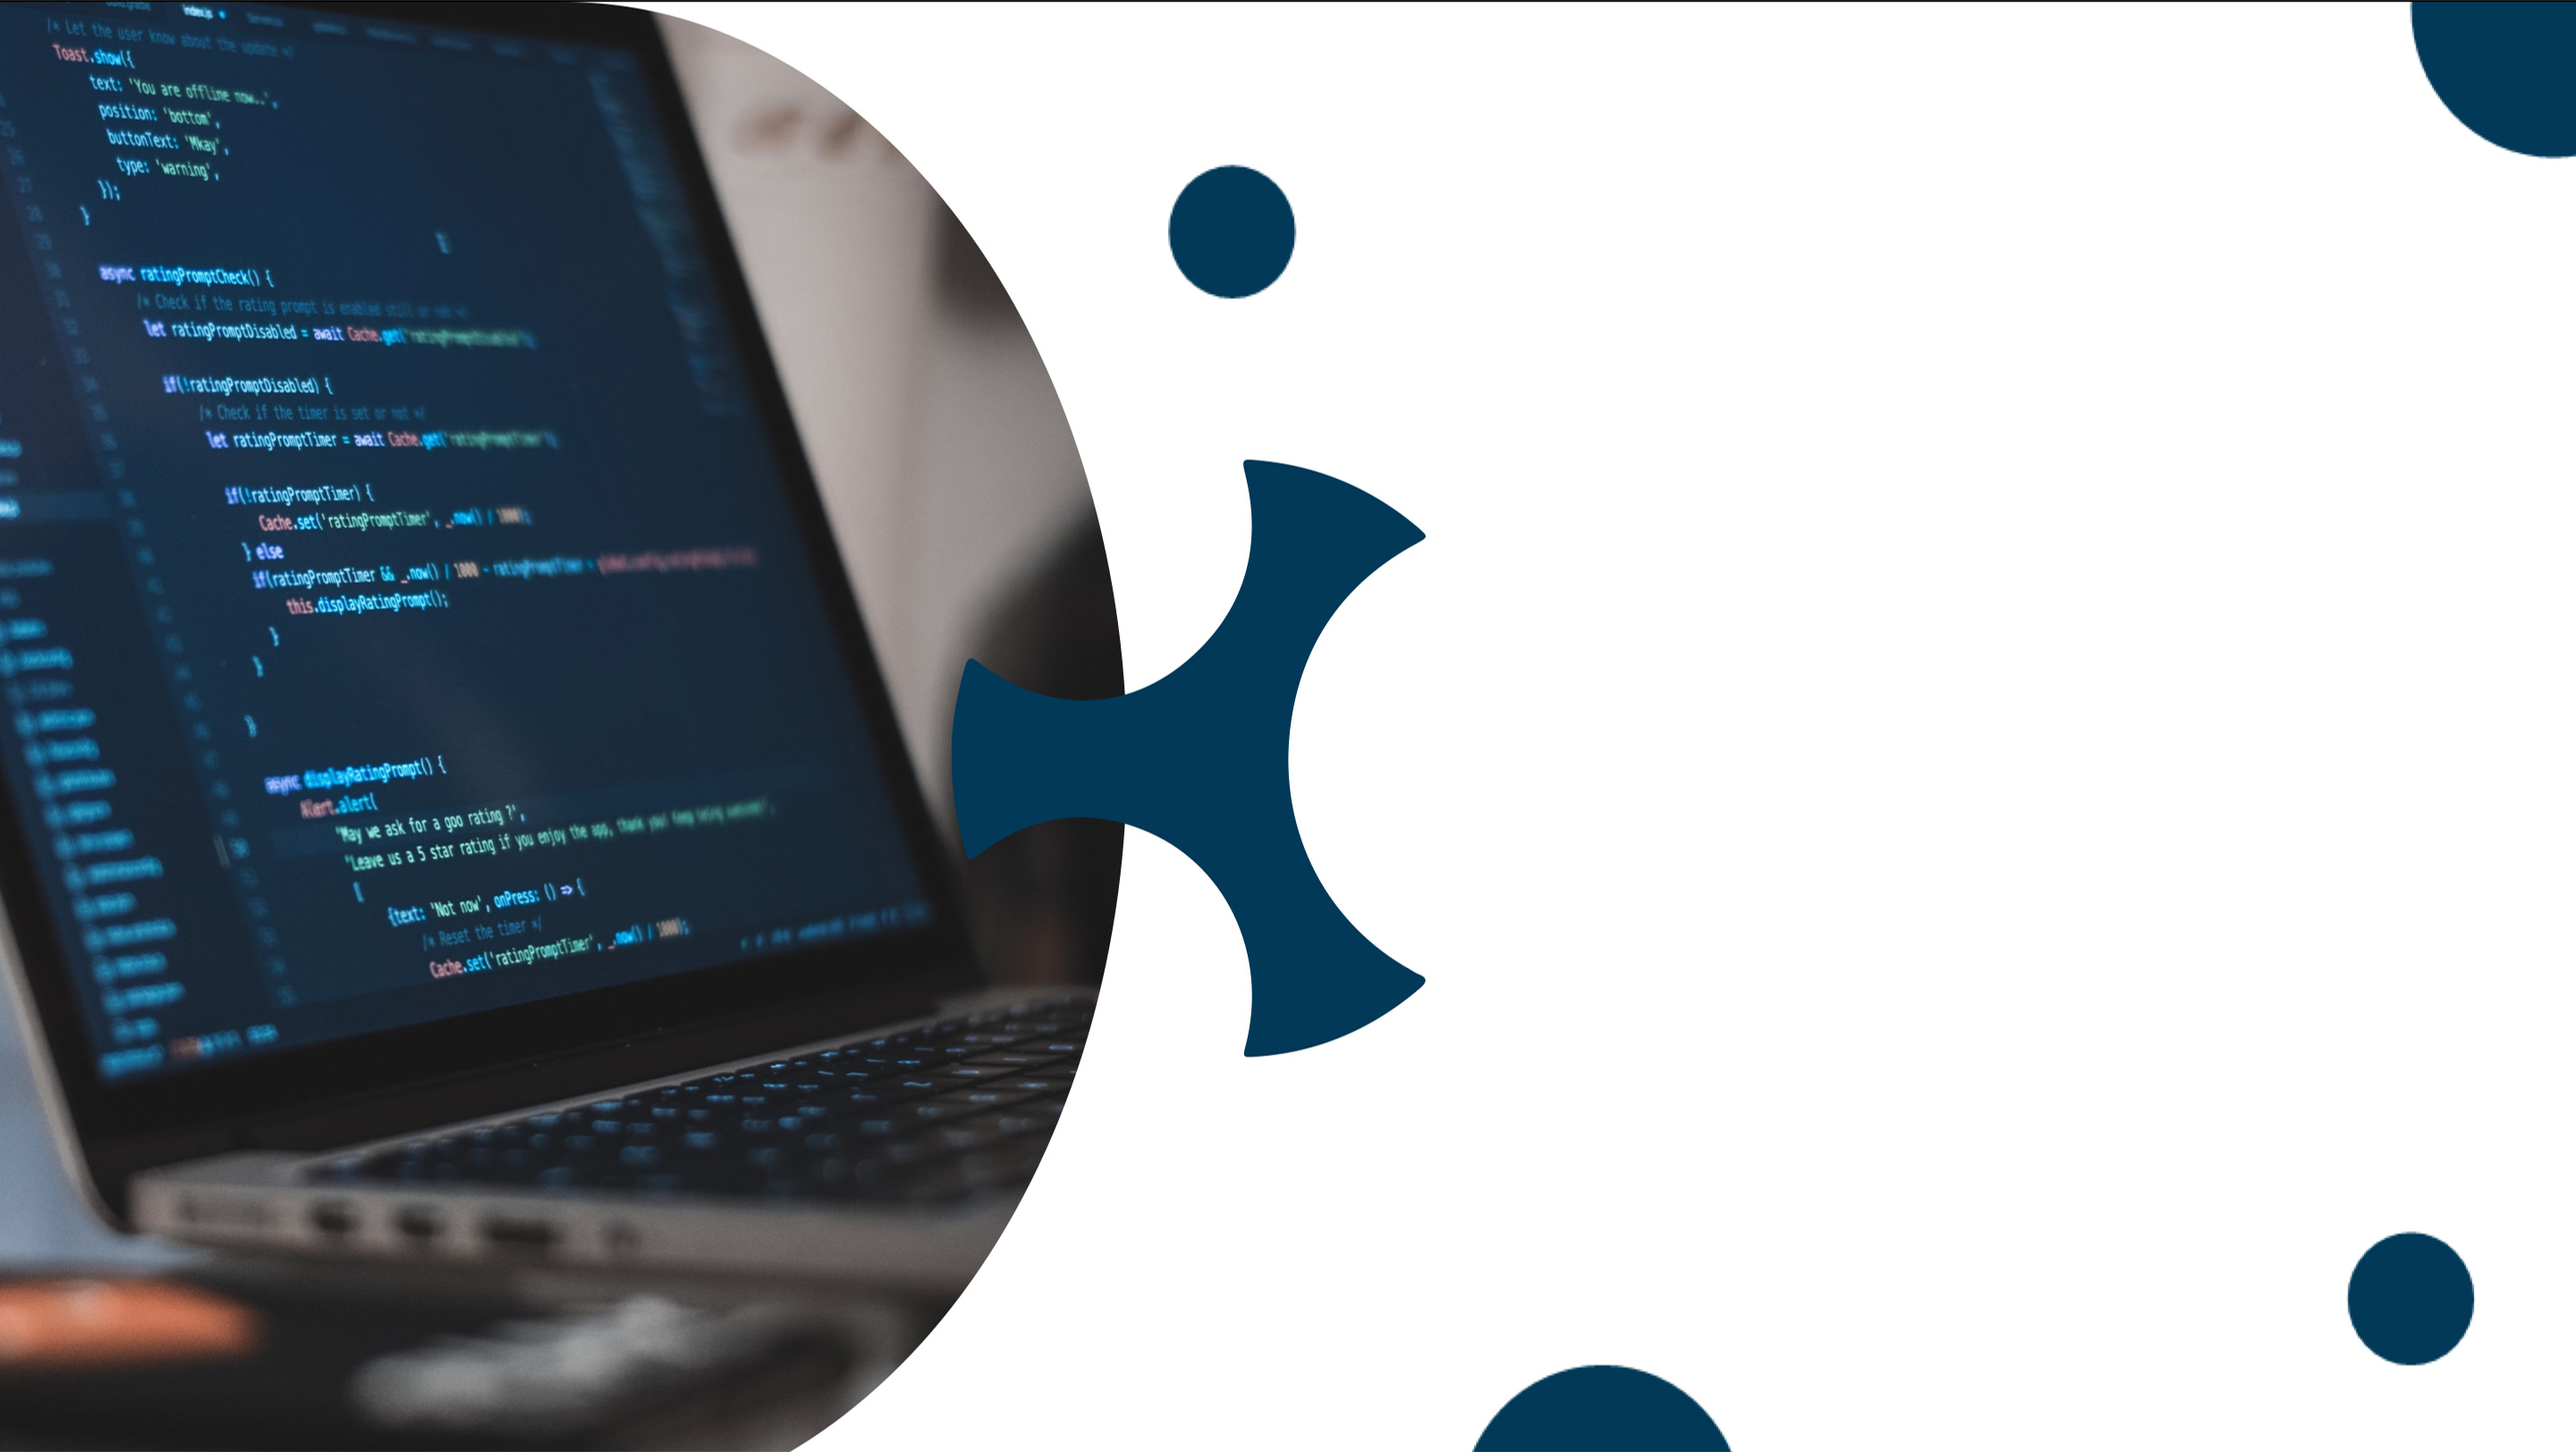
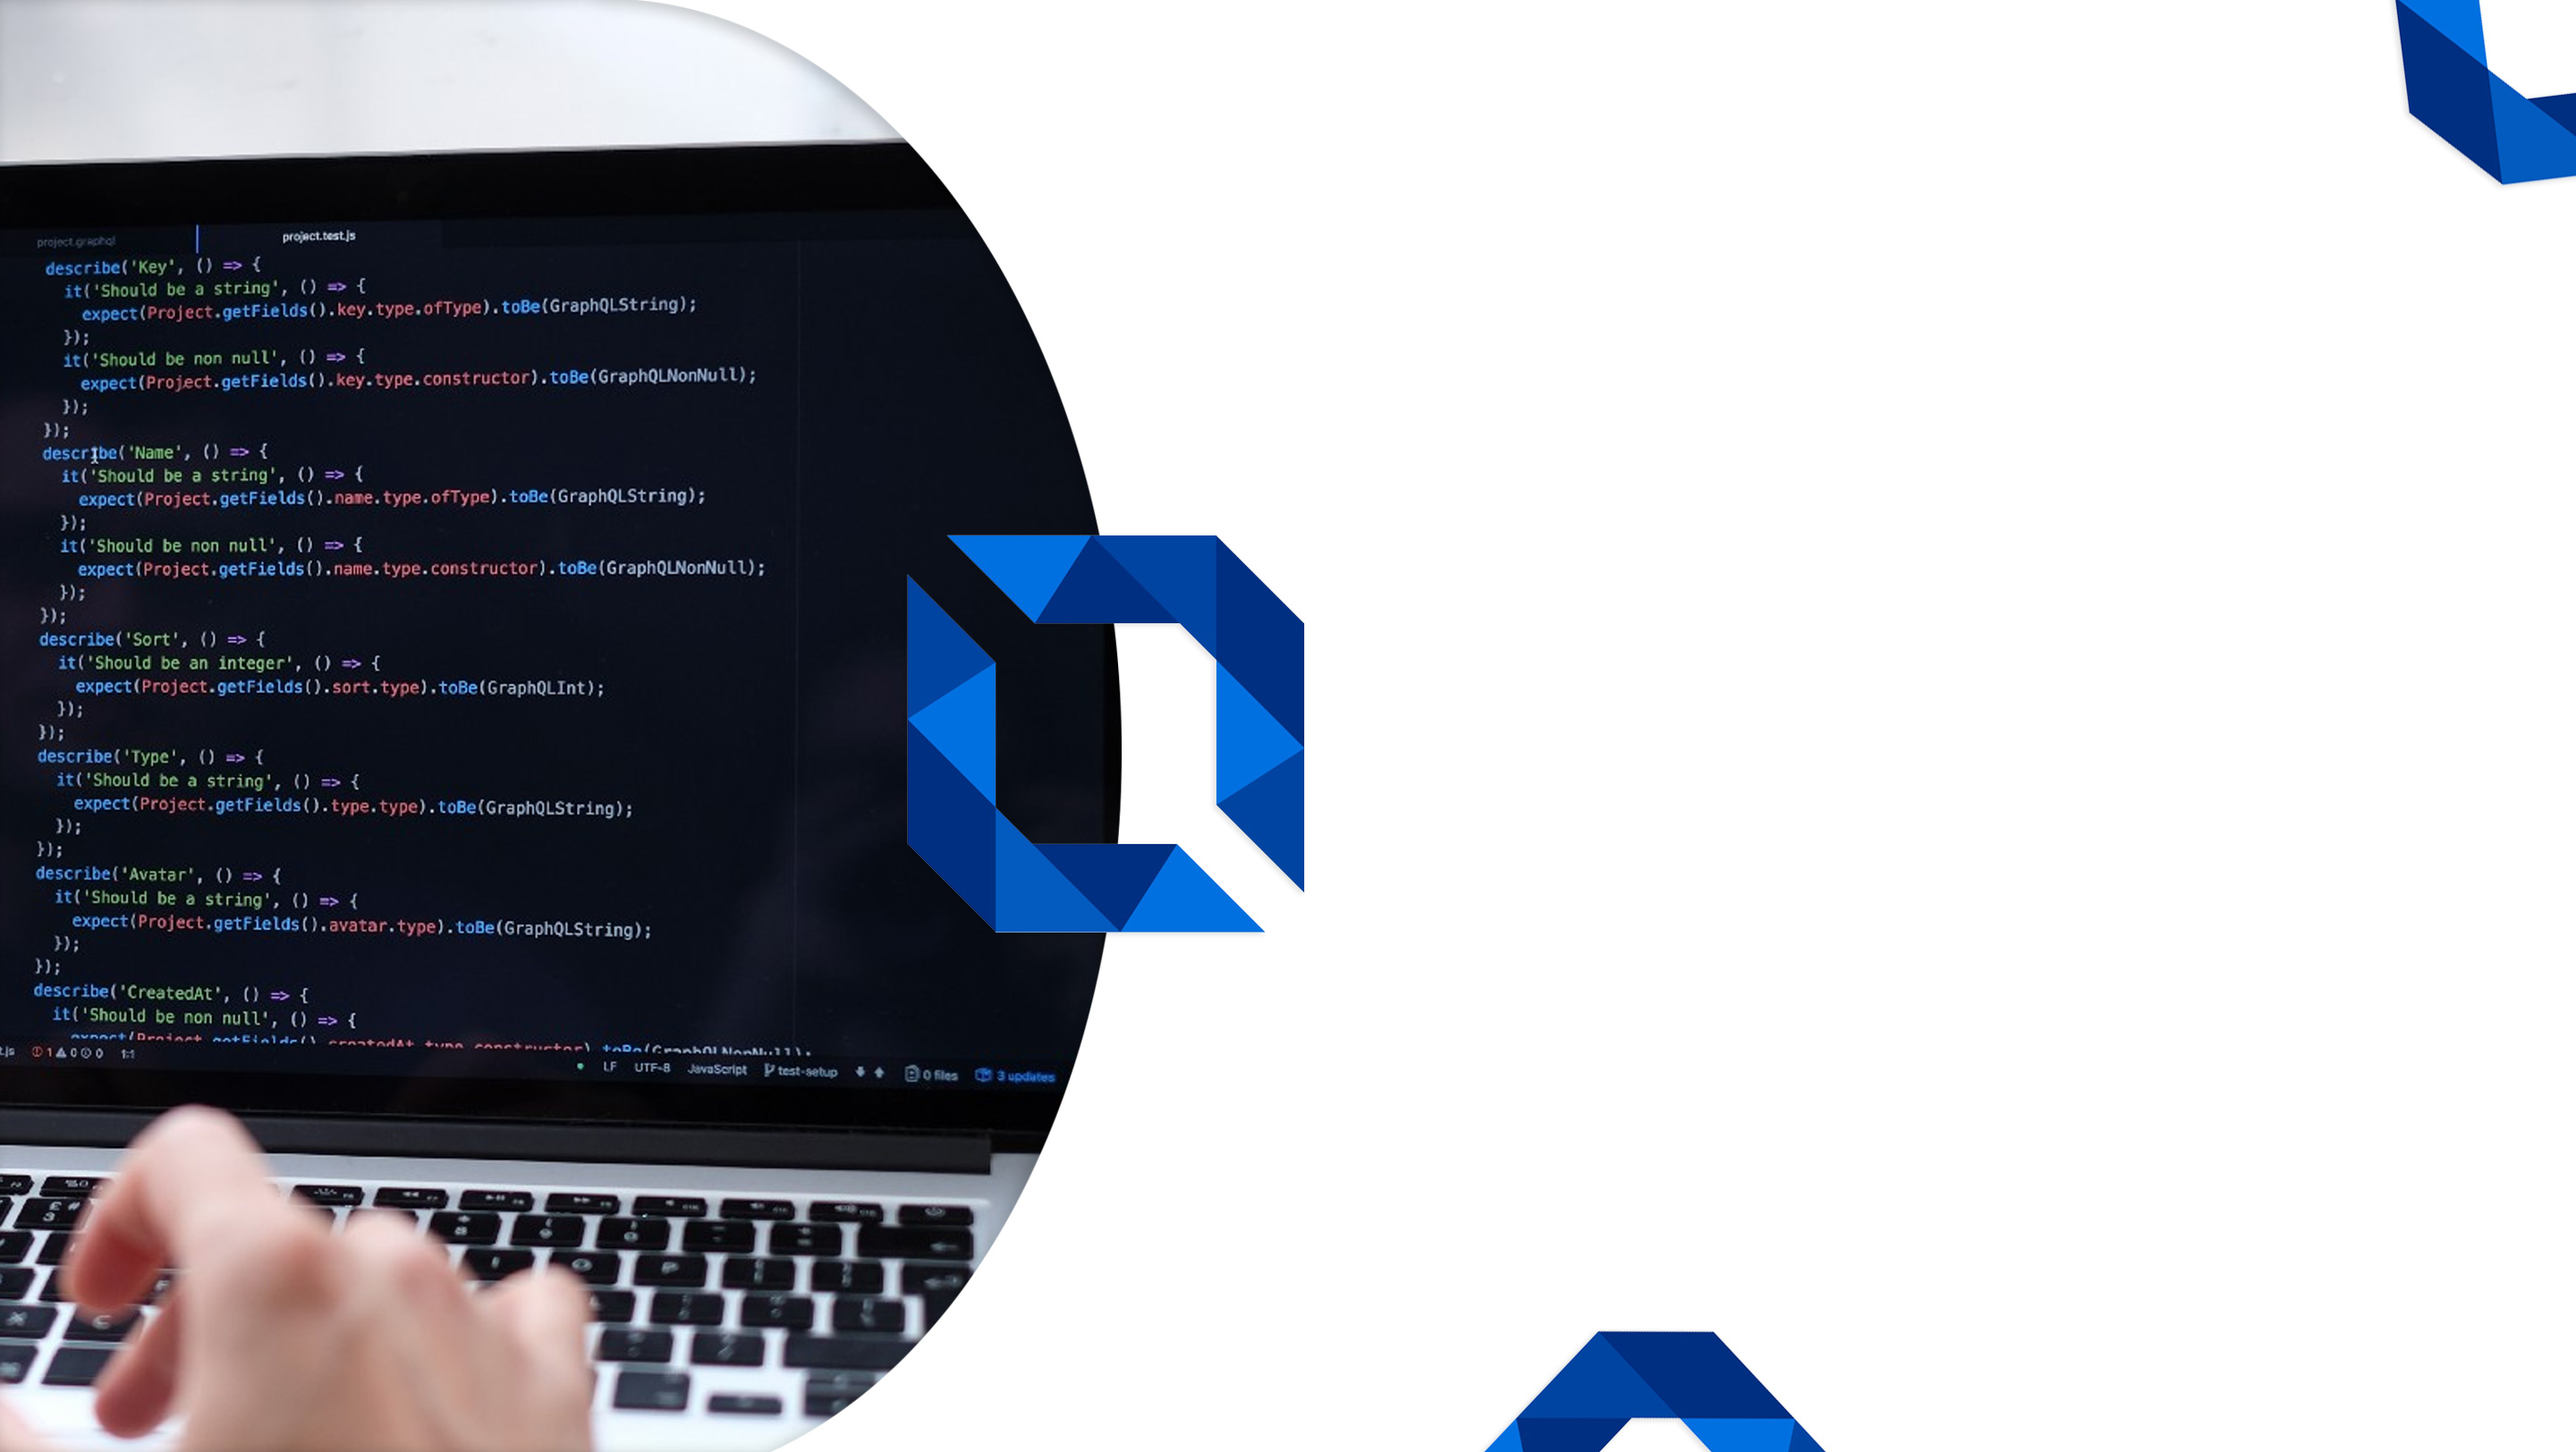
- Atualização inicial do branch de front-end

diff --git a/src/presentation/index.js b/src/presentation/index.js
@@ -29,8 +29,8 @@ preloader(images);
 const theme = createTheme(
   {
     primary: "white",
-    secondary: "#003958",
-    tertiary: "#3787b2",
+    secondary: "#002f81",
+    tertiary: "#035bbf",
     quaternary: "#A9A9A9",
     default: "#333",
   },
@@ -51,7 +51,7 @@ export default class Presentation extends React.Component {
     return (
       <Slide bgImage={images.bgCapa}>
         <Heading margin="40px 0 0 520px" textFont="secondary" size={3} caps lineHeight={1} textColor="secondary">
-          Soluções WEB
+          Front-end
         </Heading>
         <Heading
           textFont="secondary"
@@ -90,7 +90,7 @@ export default class Presentation extends React.Component {
         {this.renderSlideCapa()}
         {this.renderSlideTitulo("Apresentação da Disciplina")}
         <Slide bgImage={images.bg} bgPosition="top left">
-          <HeadingTitle>Missão da SATC</HeadingTitle>
+          <HeadingTitle>Missão da UniSATC</HeadingTitle>
           <Text textColor="default" textAlign="left">
             Transformar pessoas e organizações, por meio da educação e de tecnologias inovadoras de qualidade,
             contribuindo para o crescimento sustentável.
@@ -99,26 +99,26 @@ export default class Presentation extends React.Component {
         <Slide bgImage={images.bg} bgPosition="top left">
           <HeadingTitle>Objetivos do Curso</HeadingTitle>
           <Text textColor="default" textAlign="left" textSize={26} style={{ lineHeight: "36px" }}>
-            Promover um ensino de qualidade, para que o Engenheiro da Computação adquira as competências técnicas,
-            cientificas e profissionais necessárias, dentre elas: sua capacidade de aprender a aprender, competências
-            interpessoais como comunicação e colaboração, e ainda, saber empreender e inovar.
+            Promover um ensino de qualidade, para que o Engenheiro de Software adquira as competências técnicas,
+            científicas e profissionais necessárias, dentre elas: sua capacidade de aprender a aprender, competências
+            interpessoais como comunicação e colaboração, e ainda, saber empreender e inovar.
           </Text>
         </Slide>
         <Slide bgImage={images.bg} bgPosition="top left">
           <HeadingTitle>Ementa</HeadingTitle>
           <Text textColor="default" textAlign="left" textSize={26} style={{ lineHeight: "36px" }}>
-            Conceitos sobre aplicações Web. Desenvolvimento de aplicações Web. Desenvolvimento de interfaces de usuários
-            utilizando programação orientada a objetos. Estudo e implementação de novas tecnologias de WEB.
+            Conceitos sobre aplicações Web (front-end). Desenvolvimento de aplicações Web. Desenvolvimento de interfaces
+            de usuários utilizando programação orientada a objetos. Estudo e implementação de novas tecnologias de WEB.
           </Text>
         </Slide>
         <Slide bgImage={images.bg} bgPosition="top left">
           <HeadingTitle>Objetivos de Aprendizagem</HeadingTitle>
           <Text textColor="default" textAlign="left" textSize={26} style={{ lineHeight: "36px" }}>
-            Objetiva-se que o acadêmico ao final desta disciplina seja capaz de compreender conceitos fundamentais para
-            o desenvolvimento de aplicações web baseadas em padrões dinâmicos. Delinear, especificar e projetar
+            Objetiva-se que o acadêmico ao final desta disciplina seja capaz de compreender conceitos fundamentais para
+            o desenvolvimento de aplicações web baseadas em padrões dinâmicos. Delinear, especificar e projetar
             necessidades acerca das tecnologias mais adequadas para cada projeto e suas respectivas finalidades.
-            Desenvolver e otimizar aplicações interativas por meio de ferramentas e linguagens ricas focadas na
-            experiência do usuário através das camadas front e backend.
+            Desenvolver e otimizar aplicações interativas por meio de ferramentas e linguagens ricas focadas na
+            experiência do usuário através da camada vinculada front-end da aplicação/site.
           </Text>
         </Slide>
         <Slide bgImage={images.bg} bgPosition="top left">
@@ -142,7 +142,7 @@ export default class Presentation extends React.Component {
           <Appear>
             <div style={{ marginBottom: 28 }}>
               <Text textSize={24} textAlign="left" textColor="default">
-                Exercícios práticos em sala ou para fazer em casa com postagem no ambiente virtual da Faculdade SATC
+                Exercícios práticos em sala ou para fazer em casa com postagem no ambiente virtual da UniSATC
               </Text>
             </div>
           </Appear>
@@ -231,7 +231,7 @@ export default class Presentation extends React.Component {
           <Appear>
             <div style={{ marginTop: "21%" }}>
               <Text textSize={30} textAlign="center" textColor="white">
-                A <strong>Burn web.studio</strong> está presente no mercado há quase 15 anos. É uma empresa de
+                A <strong>Burn web.studio</strong> está presente no mercado há mais de 15 anos. É uma empresa de
                 Comunicação Interativa com foco no Desenvolvimento de Web Sites e Aplicativos, empresariais e pessoais.
               </Text>
             </div>
@@ -261,11 +261,12 @@ export default class Presentation extends React.Component {
           showLineNumbers={false}
           code={require("!raw-loader!../assets/conteudoProgramatico.example")}
           ranges={[
-            { loc: [0, 20] },
+            { loc: [0, 21] },
             { loc: [0, 1] },
             { loc: [1, 2] },
             { loc: [2, 3] },
             { loc: [3, 4] },
+            { loc: [4, 5] },
             { loc: [5, 6] },
             { loc: [6, 7] },
             { loc: [7, 8] },
@@ -281,7 +282,8 @@ export default class Presentation extends React.Component {
             { loc: [17, 18] },
             { loc: [18, 19] },
             { loc: [19, 20] },
-            { loc: [0, 20] },
+            { loc: [20, 21] },
+            { loc: [0, 21] },
           ]}
         />
         <Slide bgImage={images.bg} bgPosition="top left">
@@ -289,9 +291,9 @@ export default class Presentation extends React.Component {
           <Text textColor="default" textAlign="left" textSize={26} style={{ lineHeight: "36px" }}>
             Avaliações
             <br />
-            N1 (N1) N1 (10,0)
+            N1 (N-1) N1 (10,0)
             <br />
-            N2 (N1) N2 (10,0)
+            N2 (N-1) N2 (10,0)
             <br />
             N3 - Exercícios ao longo do semestre (10,0)
             <br />
@@ -308,14 +310,15 @@ export default class Presentation extends React.Component {
           <Appear>
             <div style={{ marginBottom: 28 }}>
               <Text textAlign="left" textColor="default">
-                Equipes com 5 alunos <em>(estamos em 35 alunos matriculados ~ até agora)</em>
+                Equipes com + ou - 5 alunos <em>(temos que aguardar as definições de matrícula)</em>
               </Text>
             </div>
           </Appear>
           <Appear>
             <div style={{ marginBottom: 28 }}>
               <Text textAlign="left" textColor="default">
-                Temas de cunho relevante, visando utilização real e de preferência com impacto social
+                Temas de cunho relevante, visando utilização no mundo real e sem ter cara de{" "}
+                <em>"tutorial da Rocketseat"</em>
               </Text>
             </div>
           </Appear>
@@ -340,8 +343,8 @@ export default class Presentation extends React.Component {
           <Appear>
             <div style={{ marginBottom: 28 }}>
               <Text textAlign="left" textColor="default">
-                Última Entrega na <strong>Aula 19</strong> -{" "}
-                <em>Projeto Concluído, Front + Back-end, Funcional (Demonstração)</em>
+                Última Entrega na <strong>penúltima aula</strong> <em>(antes da N-1)</em> -{" "}
+                <em>Projeto Concluído e 100% Funcional (Demonstração)</em>
               </Text>
             </div>
           </Appear>
@@ -410,7 +413,9 @@ export default class Presentation extends React.Component {
             The Project
           </HeadingTitle>
           <Text textAlign="center" textSize={21} margin="0 auto 36px">
-            http://info.cern.ch/hypertext/WWW/TheProject.html
+            <a href="http://info.cern.ch/hypertext/WWW/TheProject.html" target="_blank" rel="noopener noreferrer">
+              http://info.cern.ch/hypertext/WWW/TheProject.html
+            </a>
           </Text>
           <Image src={require("../assets/sites/theproject.png")} width={600} margin="60px auto 0" />
         </Slide>

diff --git a/src/index.js b/src/index.js
@@ -1,10 +1,12 @@
-import React from 'react';
-import PropTypes from 'prop-types';
-import ReactDOM from 'react-dom';
-import { AppContainer } from 'react-hot-loader';
-import Redbox from 'redbox-react';
+import React from "react";
+import PropTypes from "prop-types";
+import ReactDOM from "react-dom";
+import { AppContainer } from "react-hot-loader";
+import Redbox from "redbox-react";
 
-import Presentation from './presentation';
+import Presentation from "./presentation";
+
+require("react-hot-loader/patch");
 
 const CustomErrorReporter = ({ error }) => <Redbox error={error} />;
 
@@ -16,17 +18,17 @@ ReactDOM.render(
   <AppContainer errorReporter={CustomErrorReporter}>
     <Presentation />
   </AppContainer>,
-  document.getElementById('root')
+  document.getElementById("root")
 );
 
 if (module.hot) {
-  module.hot.accept('./presentation', () => {
-    const NextPresentation = require('./presentation').default;
+  module.hot.accept("./presentation", () => {
+    const NextPresentation = require("./presentation").default;
     ReactDOM.render(
       <AppContainer errorReporter={CustomErrorReporter}>
         <NextPresentation />
       </AppContainer>,
-      document.getElementById('root')
+      document.getElementById("root")
     );
   });
 }

diff --git a/public/index.html b/public/index.html
@@ -6,7 +6,7 @@
     <meta name="viewport" content="width=device-width, initial-scale=1, shrink-to-fit=no" />
     <meta name="theme-color" content="#000000" />
     <link rel="manifest" href="%PUBLIC_URL%/manifest.json" />
-    <title>Soluções WEB - Aula 01</title>
+    <title>SW Front-end - Aula 01</title>
     <link href="https://fonts.googleapis.com/css?family=Montserrat:400,700" rel="stylesheet">
     <link href="https://fonts.googleapis.com/css?family=Anton|Open+Sans:400,400i,600,600i,700,700i,800,800i&amp;subset=latin-ext" rel="stylesheet" />
     <link href="https://fonts.googleapis.com/css?family=Open+Sans+Condensed:300,700" rel="stylesheet" type="text/css" />
